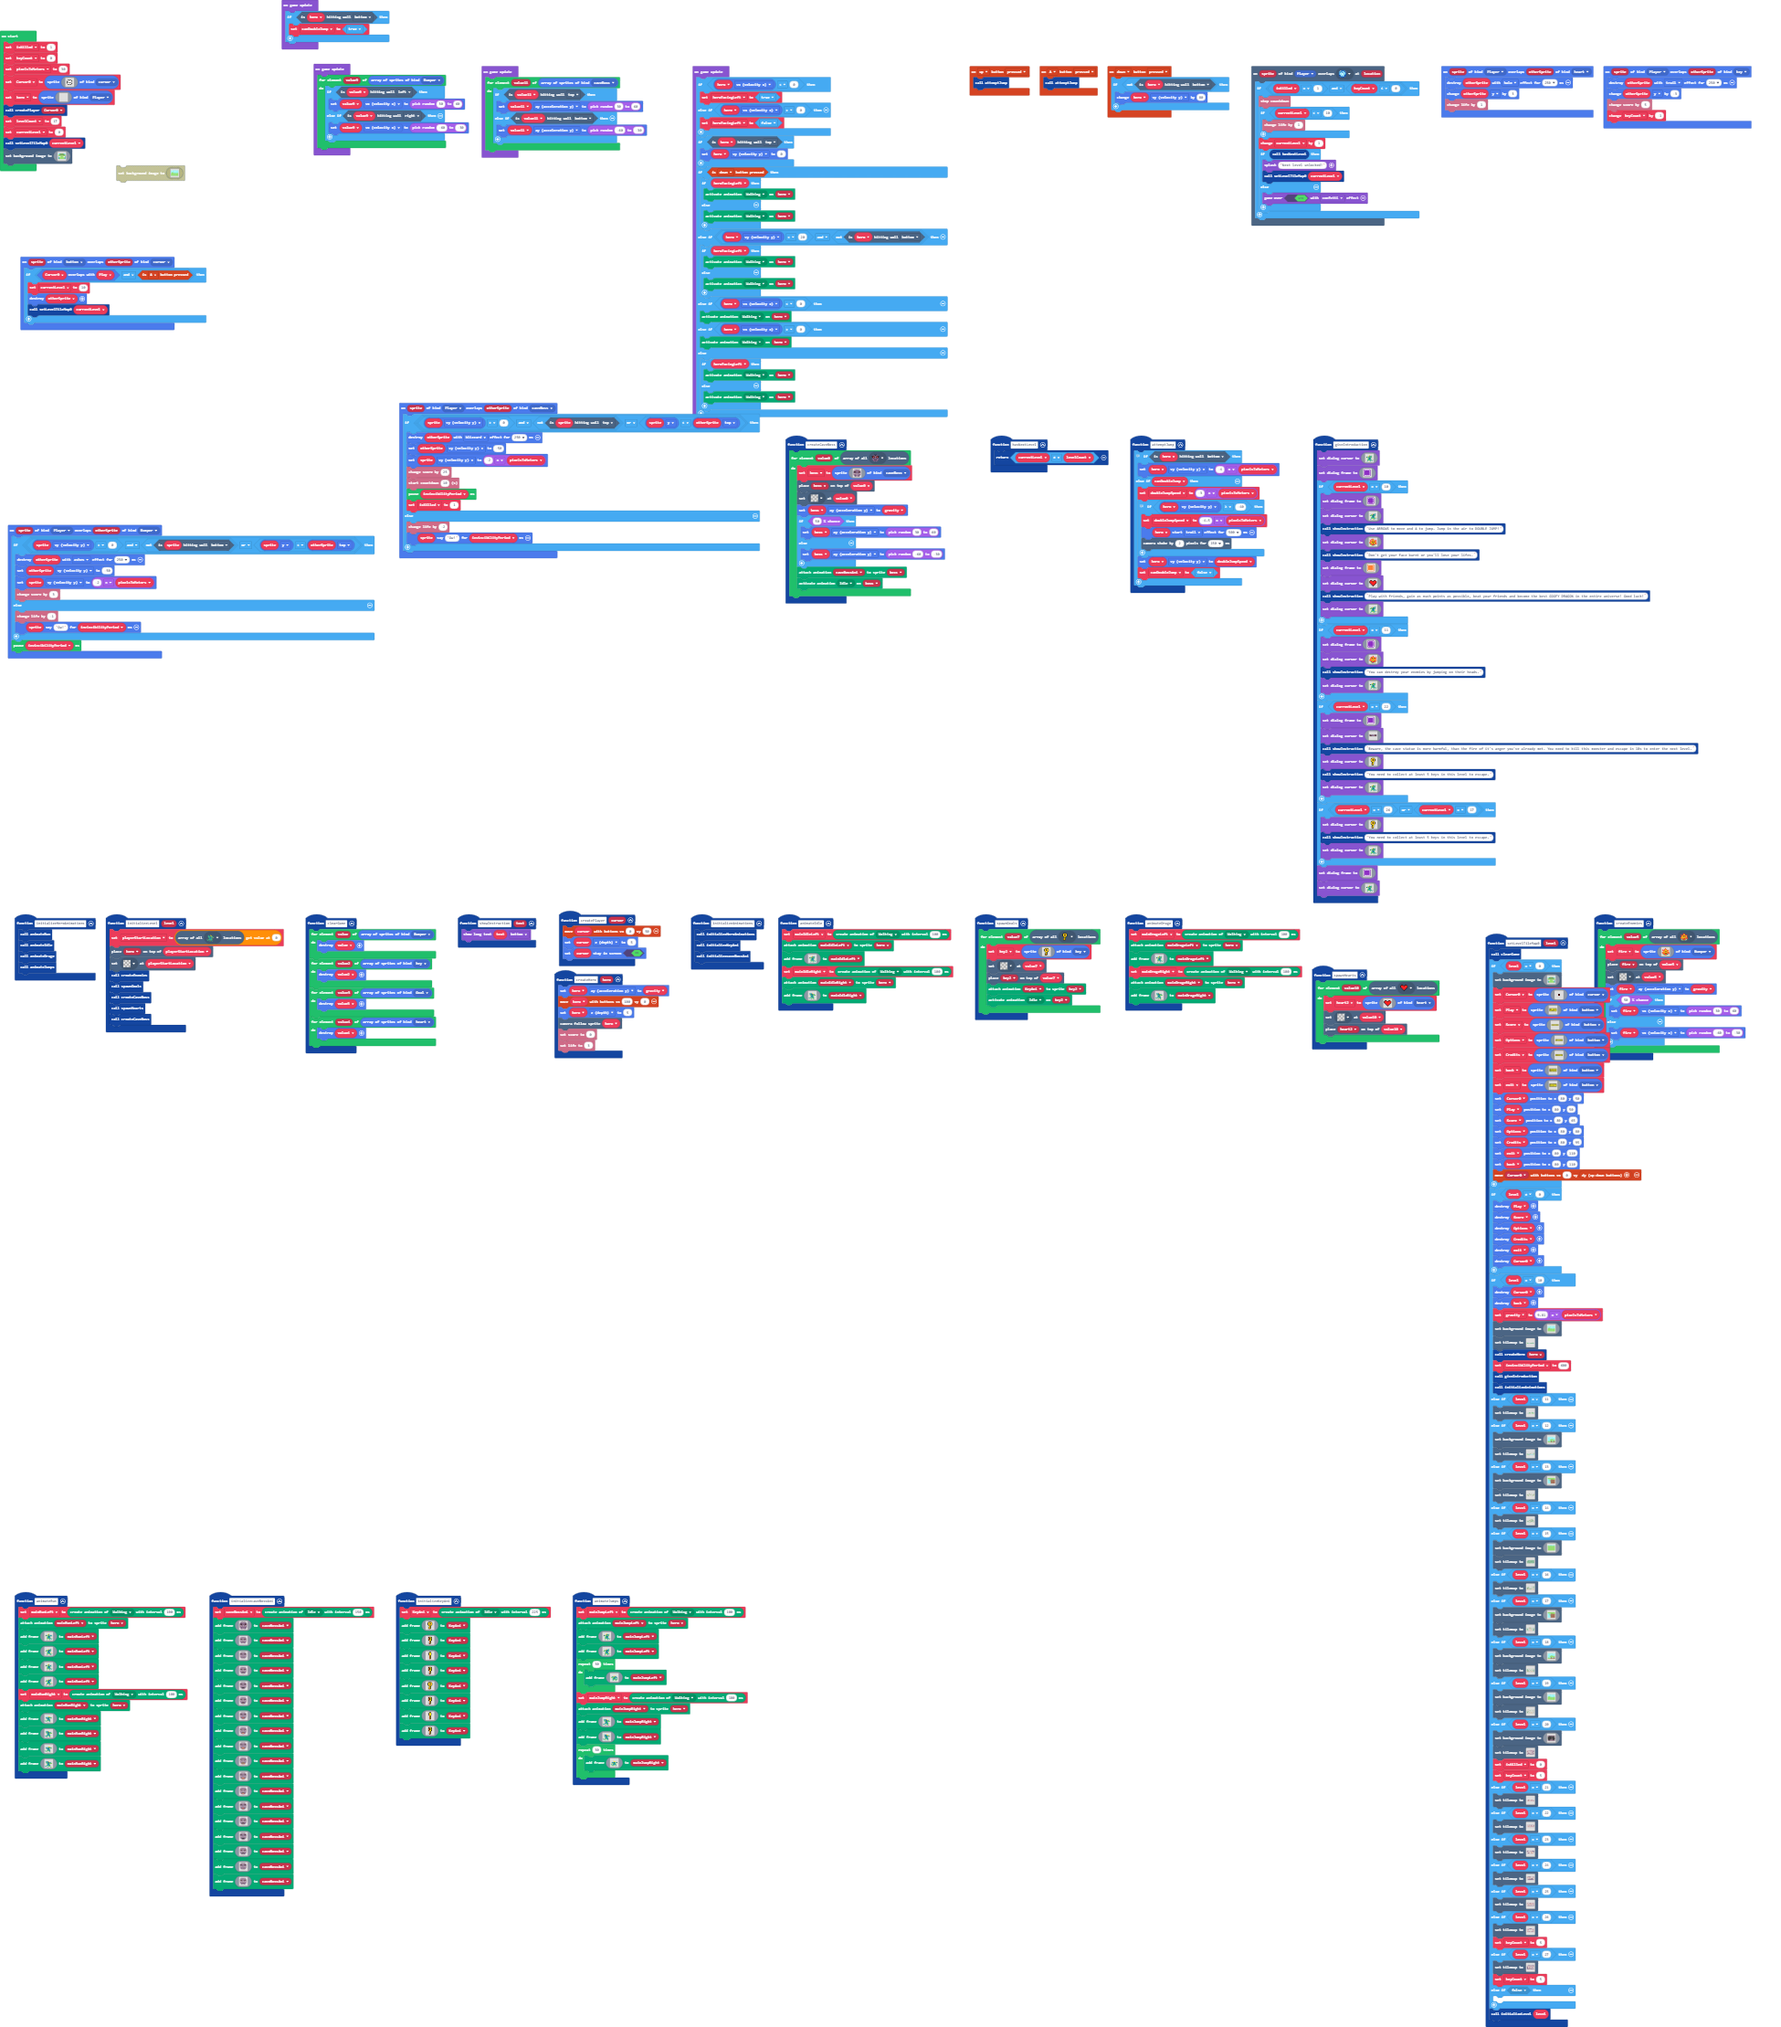
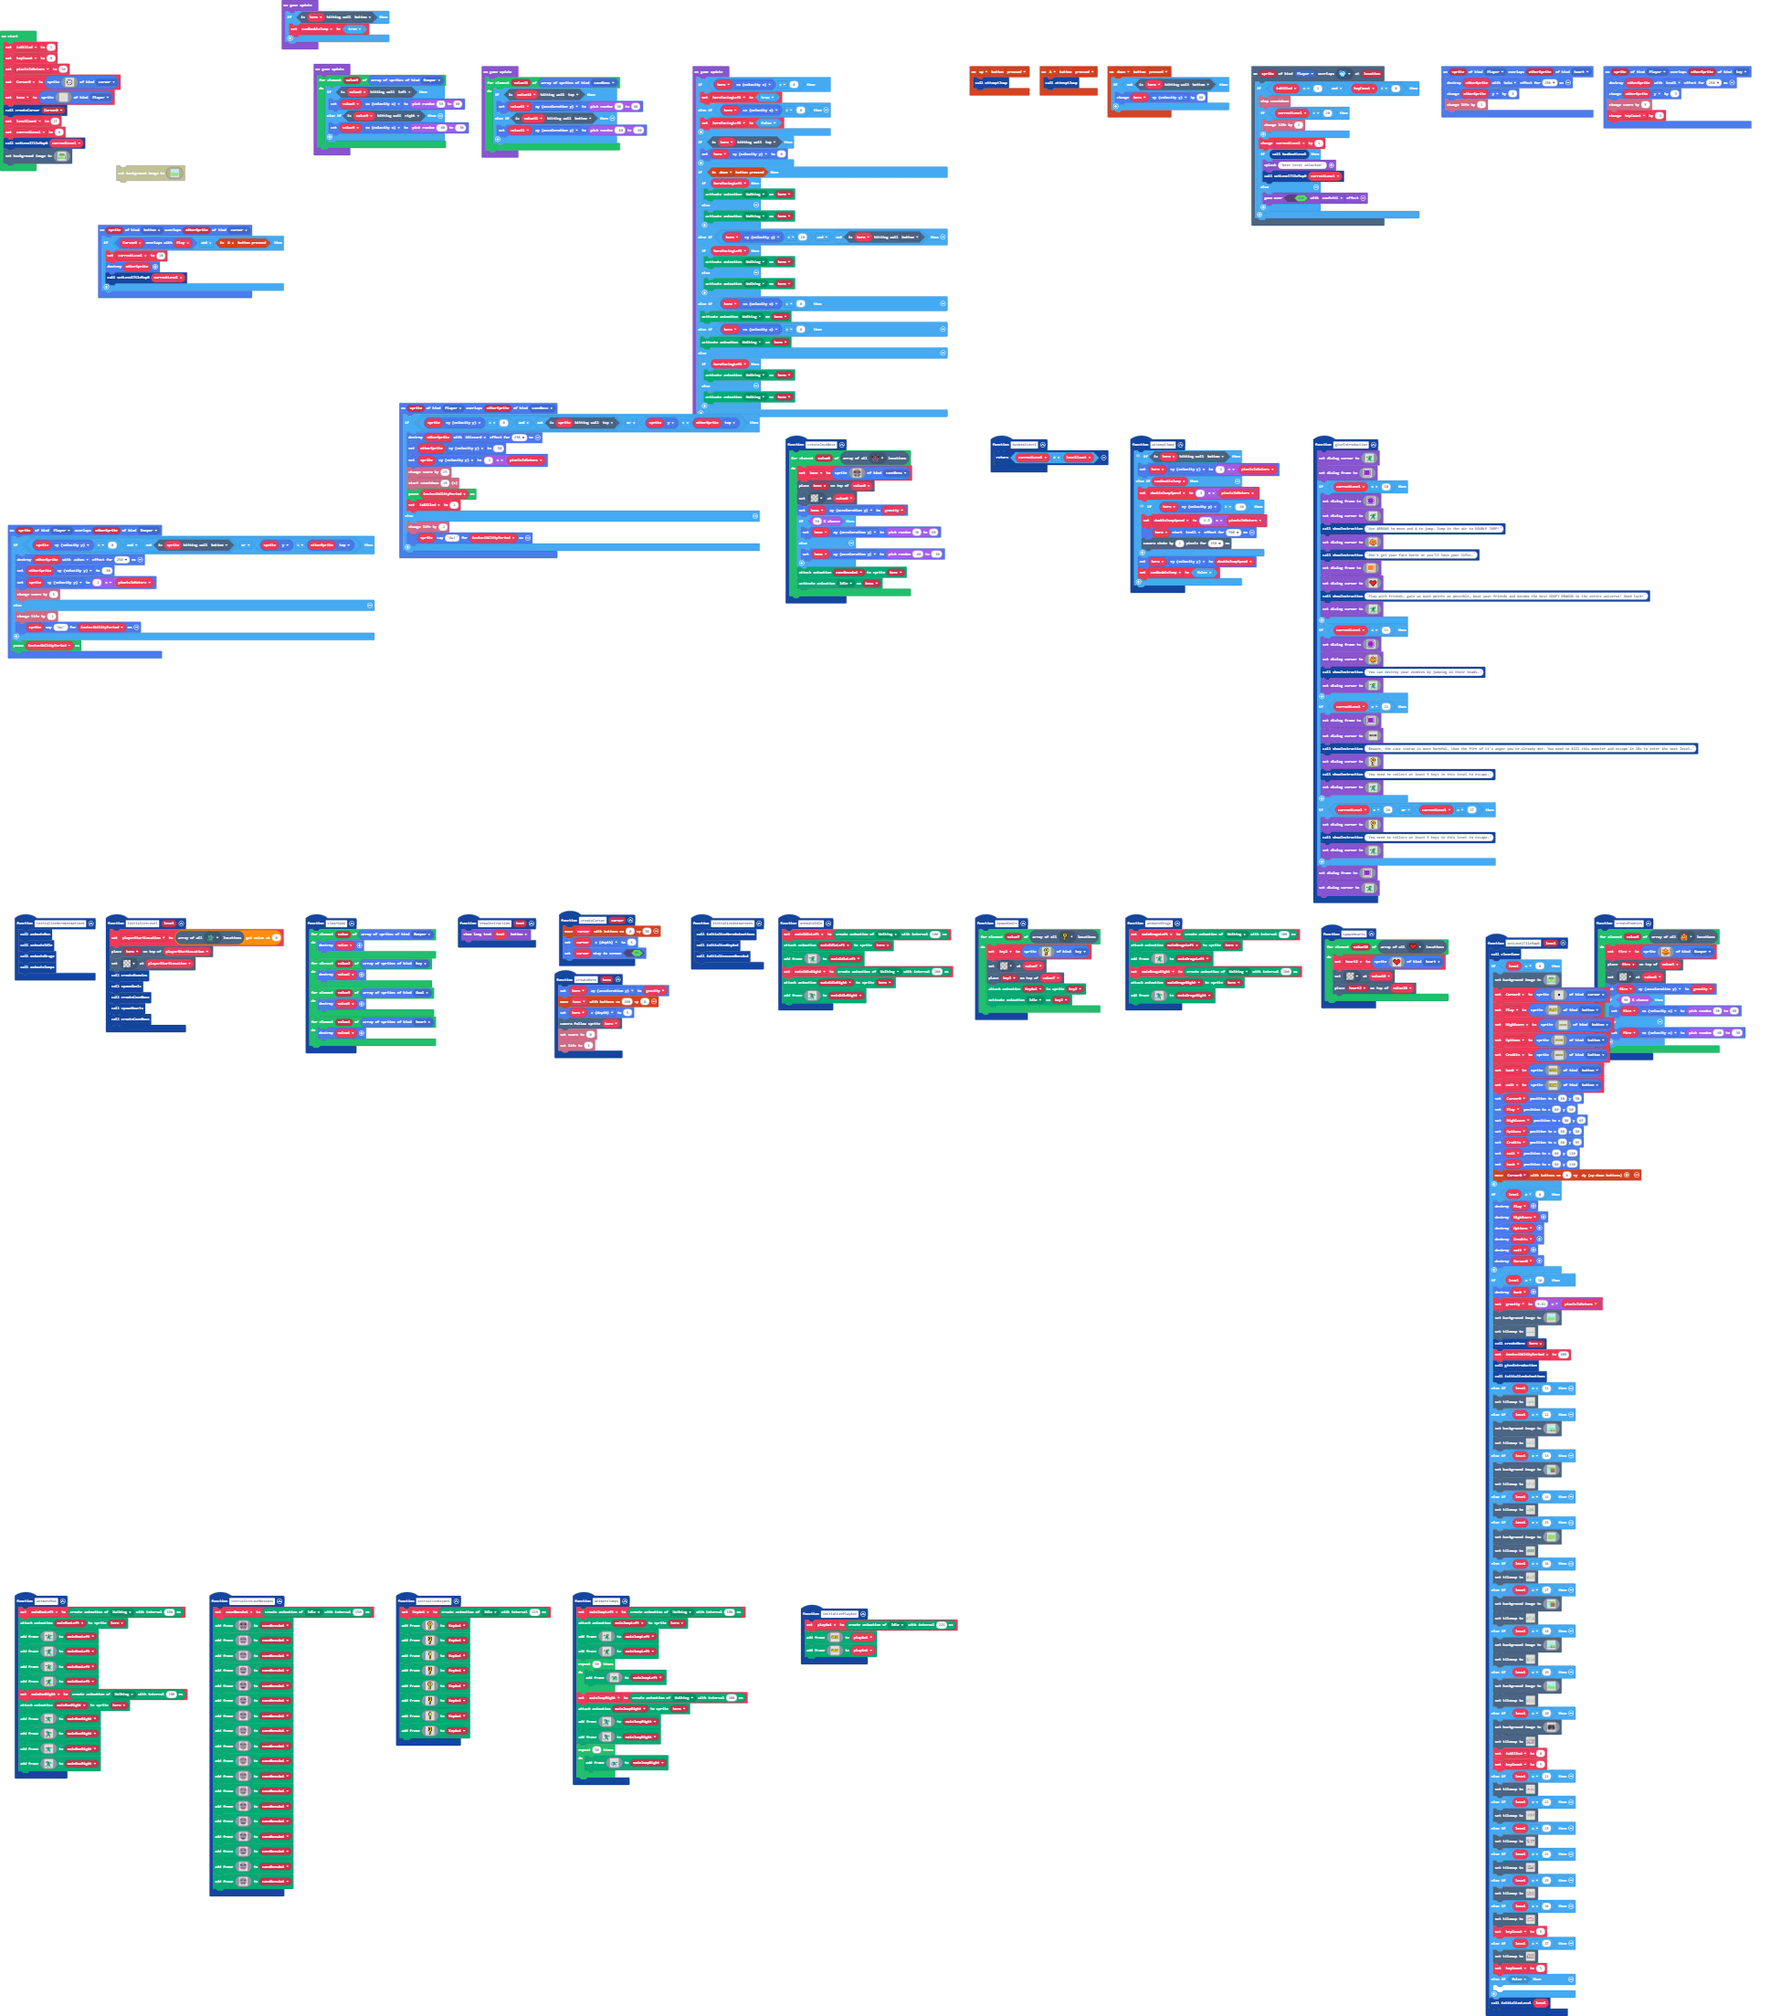
Update main.blocks, main.ts, tilemap.g.jres, tilemap.g.ts

diff --git a/main.ts b/main.ts
@@ -644,6 +644,39 @@ sprites.onOverlap(SpriteKind.Player, SpriteKind.heart, function (sprite, otherSp
     otherSprite.y += 3
     info.changeLifeBy(1)
 })
+function initializePlayAni () {
+    playAni = animation.createAnimation(ActionKind.Idle, 225)
+    playAni.addAnimationFrame(img`
+        51515151515151515151515151515
+        1fffffffffffffffffffffffffff1
+        5f5555555555555555555555555f5
+        1f5ffff55f555555fff55f555f5f1
+        5f5f555f5f55555f555f5f555f5f5
+        1f5f555f5f55555f555f55f5f55f1
+        5f5ffff55f55555f555f555f555f5
+        1f5f55555f55555fffff555f555f1
+        5f5f55555f55555f555f555f555f5
+        1f5f55555fffff5f555f555f555f1
+        5f5555555555555555555555555f5
+        1fffffffffffffffffffffffffff1
+        51515151515151515151515151515
+        `)
+    playAni.addAnimationFrame(img`
+        15151515151515151515151515151
+        5fffffffffffffffffffffffffff5
+        1f5555555555555555555555555f1
+        5f5ffff55f555555fff55f555f5f5
+        1f5f555f5f55555f555f5f555f5f1
+        5f5f555f5f55555f555f55f5f55f5
+        1f5ffff55f55555f555f555f555f1
+        5f5f55555f55555fffff555f555f5
+        1f5f55555f55555f555f555f555f1
+        5f5f55555fffff5f555f555f555f5
+        1f5555555555555555555555555f1
+        5fffffffffffffffffffffffffff5
+        15151515151515151515151515151
+        `)
+}
 function setLevelTileMap0 (level: number) {
     clearGame()
     if (level == 0) {
@@ -800,7 +833,7 @@ function setLevelTileMap0 (level: number) {
             f 5 5 5 5 5 5 5 5 5 5 5 5 5 5 5 5 5 5 5 5 5 5 5 5 5 f 
             f f f f f f f f f f f f f f f f f f f f f f f f f f f 
             `, SpriteKind.button)
-        Score = sprites.create(img`
+        HighScore = sprites.create(img`
             fffffffffffffffffffffffffffffffffffffffffffffffffffffffffff
             f555555555555555555555555555555555555555555555555555555555f
             f5f555f5fffff55fff55f555f5555fff555fff555fff55ffff55fffff5f
@@ -867,7 +900,7 @@ function setLevelTileMap0 (level: number) {
             `, SpriteKind.button)
         Cursor0.setPosition(80, 50)
         Play.setPosition(80, 50)
-        Score.setPosition(80, 65)
+        HighScore.setPosition(80, 65)
         Options.setPosition(80, 80)
         Credits.setPosition(80, 95)
         exit.setPosition(80, 110)
@@ -876,14 +909,13 @@ function setLevelTileMap0 (level: number) {
     }
     if (level != 0) {
         Play.destroy()
-        Score.destroy()
+        HighScore.destroy()
         Options.destroy()
         Credits.destroy()
         exit.destroy()
         Cursor0.destroy()
     }
     if (level == 10) {
-        Cursor0.destroy()
         back.destroy()
         gravity = 9.81 * pixelsToMeters
         scene.setBackgroundImage(img`
@@ -2246,7 +2278,7 @@ function clearGame () {
 scene.onOverlapTile(SpriteKind.Player, assets.tile`tile11`, function (sprite, location) {
     if (isKilled == 1 && keyCount <= 0) {
         info.stopCountdown()
-        if (currentLevel < 10) {
+        if (currentLevel < 20) {
             info.changeLifeBy(1)
         }
         currentLevel += 1
@@ -2300,6 +2332,11 @@ function createHero (hero: Sprite) {
     scene.cameraFollowSprite(hero)
     info.setScore(0)
     info.setLife(3)
+}
+function createCursor (cursor: Sprite) {
+    controller.moveSprite(cursor, 0, 50)
+    cursor.z = 5
+    cursor.setStayInScreen(true)
 }
 function spawnHearts () {
     for (let value10 of tiles.getTilesByType(assets.tile`myTile3`)) {
@@ -3038,11 +3075,6 @@ function initializecaveBossAni () {
         ................................
         `)
 }
-function createPlayer (cursor: Sprite) {
-    controller.moveSprite(cursor, 0, 50)
-    cursor.z = 5
-    cursor.setStayInScreen(true)
-}
 sprites.onOverlap(SpriteKind.Player, SpriteKind.key, function (sprite, otherSprite) {
     otherSprite.destroy(effects.trail, 250)
     otherSprite.y += -3
@@ -3104,8 +3136,9 @@ let exit: Sprite = null
 let back: Sprite = null
 let Credits: Sprite = null
 let Options: Sprite = null
-let Score: Sprite = null
+let HighScore: Sprite = null
 let Play: Sprite = null
+let playAni: animation.Animation = null
 let mainIdleRight: animation.Animation = null
 let mainIdleLeft: animation.Animation = null
 let doubleJumpSpeed = 0
@@ -3160,7 +3193,7 @@ hero = sprites.create(img`
     . . . . . . . . . . . . . . . . 
     . . . . . . . . . . . . . . . . 
     `, SpriteKind.Player)
-createPlayer(Cursor0)
+createCursor(Cursor0)
 levelCount = 17
 currentLevel = 0
 setLevelTileMap0(currentLevel)

diff --git a/tilemap.g.ts b/tilemap.g.ts
@@ -392,6 +392,25 @@ namespace myTiles {
 . . . . . . . . . . . . . . . . 
 . . . . . . . . . . . . . . . . 
 `, [myTiles.transparency16], TileScale.Sixteen);
+            case "level31":
+            case "level31":return tiles.createTilemap(hex`1000100000000000000000000000000000000000000000000000000000000000000000000000000000000000000000000000000000000000000000000000000000000000000000000000000000000000000000000000000000000000000000000000000000000000000000000000000000000000000000000000000000000000000000000000000000000000000000000000000000000000000000000000000000000000000000000000000000000000000000000000000000000000000000000000000000000000000000000000000000000000000000000000000000000000000000000000000000000000000000000000000000000000000000000000000000000000`, img`
+. . . . . . . . . . . . . . . . 
+. . . . . . . . . . . . . . . . 
+. . . . . . . . . . . . . . . . 
+. . . . . . . . . . . . . . . . 
+. . . . . . . . . . . . . . . . 
+. . . . . . . . . . . . . . . . 
+. . . . . . . . . . . . . . . . 
+. . . . . . . . . . . . . . . . 
+. . . . . . . . . . . . . . . . 
+. . . . . . . . . . . . . . . . 
+. . . . . . . . . . . . . . . . 
+. . . . . . . . . . . . . . . . 
+. . . . . . . . . . . . . . . . 
+. . . . . . . . . . . . . . . . 
+. . . . . . . . . . . . . . . . 
+. . . . . . . . . . . . . . . . 
+`, [myTiles.transparency16], TileScale.Sixteen);
             case "level2":
             case "level2":return tiles.createTilemap(hex`2000080000000000000000000000000000000000000000000000000000000000000000000000000000000000000000000000000000000000000200000000000000000000000000000000000000000000000000000000000000050505000000000000000000000000000000000000000602000000000000000005070705000000000004000000000000000000000005050505000600000000000507080705000006000000000000000000000000030507070705050300000000050707080705050505050500010000060000050505070807080708050000000005070807080707070707070505050505050507070708070807080705050000030507070807080708070807`, img`
 . . . . . . . . . . . . . . . . . . . . . . . . . . . . . . . . 
@@ -747,8 +766,8 @@ namespace myTiles {
 ...2.....22...2.....2....2......2..
 2222.2.2.22.........222222222222...
 `, [myTiles.transparency16,myTiles.tile9,myTiles.tile8,myTiles.tile10,myTiles.tile11,sprites.builtin.oceanSand0,sprites.builtin.oceanSand5,sprites.builtin.oceanSand6,sprites.builtin.oceanSand1,sprites.builtin.oceanSand2,sprites.builtin.oceanSand3,sprites.builtin.oceanSand7,sprites.builtin.oceanSand4,sprites.builtin.oceanSand8,myTiles.tile19], TileScale.Sixteen);
-            case "level31":
-            case "level31":return tiles.createTilemap(hex`1000100000000000000000000000000000000000000000000000000000000000000000000000000000000000000000000000000000000000000000000000000000000000000000000000000000000000000000000000000000000000000000000000000000000000000000000000000000000000000000000000000000000000000000000000000000000000000000000000000000000000000000000000000000000000000000000000000000000000000000000000000000000000000000000000000000000000000000000000000000000000000000000000000000000000000000000000000000000000000000000000000000000000000000000000000000000000`, img`
+            case "level36":
+            case "level36":return tiles.createTilemap(hex`1000100000000000000000000000000000000000000000000000000000000000000000000000000000000000000000000000000000000000000000000000000000000000000000000000000000000000000000000000000000000000000000000000000000000000000000000000000000000000000000000000000000000000000000000000000000000000000000000000000000000000000000000000000000000000000000000000000000000000000000000000000000000000000000000000000000000000000000000000000000000000000000000000000000000000000000000000000000000000000000000000000000000000000000000000000000000000`, img`
 . . . . . . . . . . . . . . . . 
 . . . . . . . . . . . . . . . . 
 . . . . . . . . . . . . . . . . 
